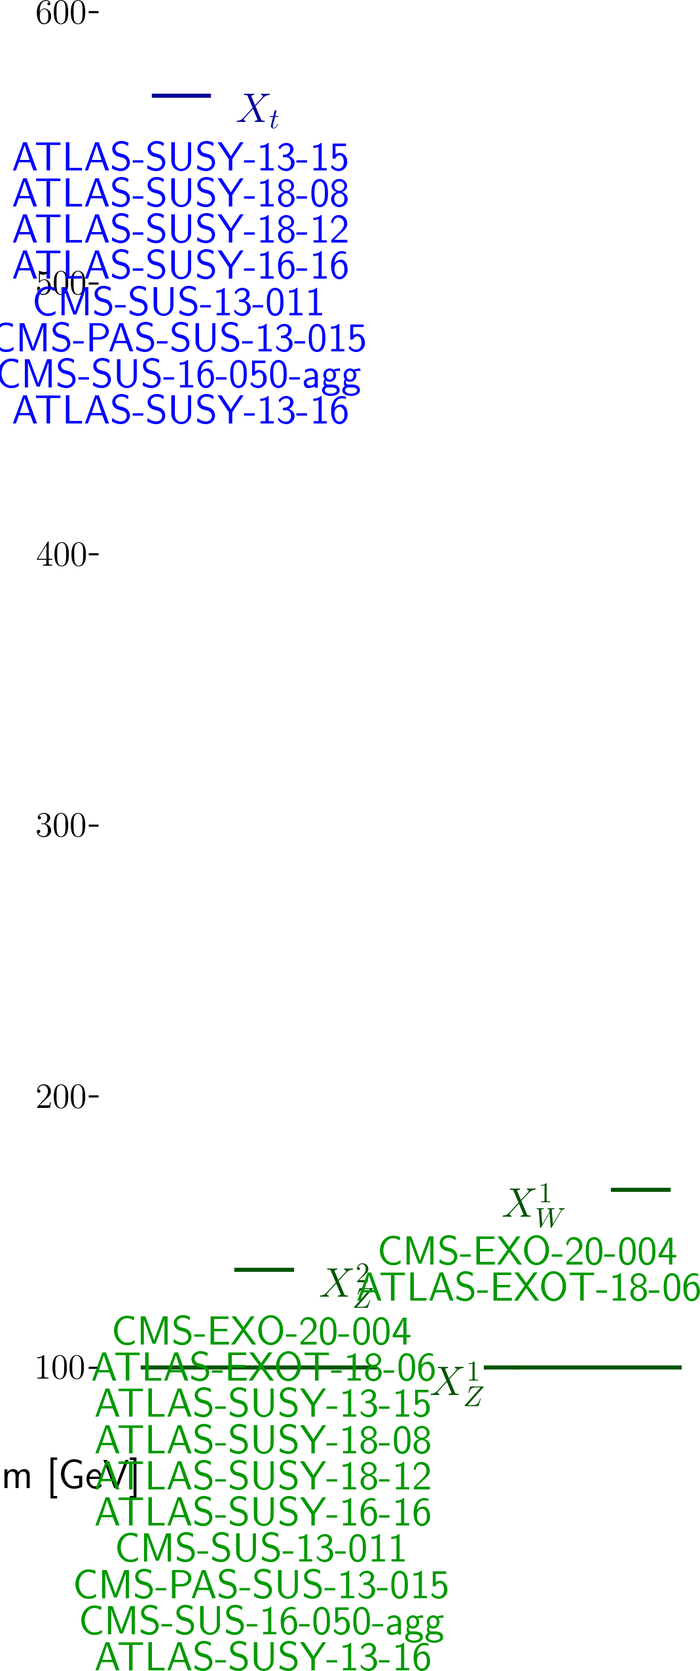
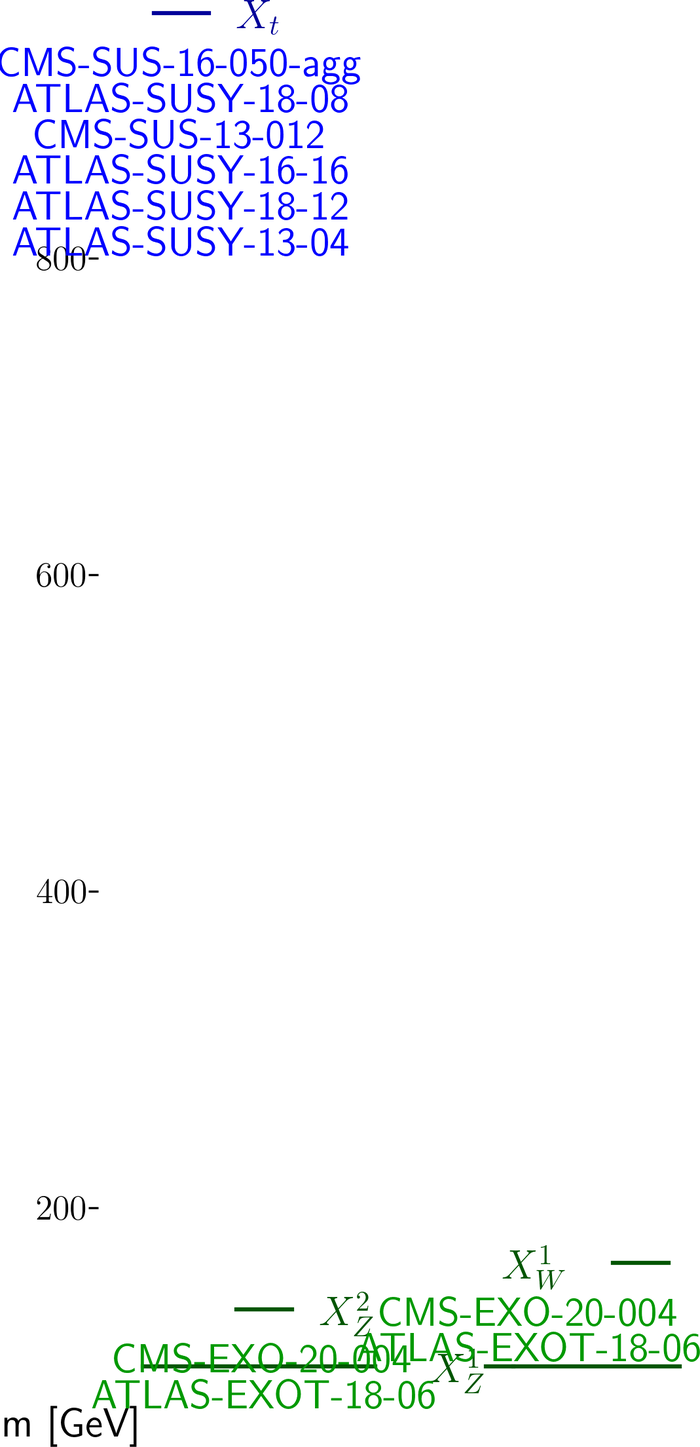
automated update by plotHiscore.py to mcmc4_310:     K=24.436 TL=29.49 walkerid=0

diff --git a/protomodels/mcmc4_310/rawnumbers.html b/protomodels/mcmc4_310/rawnumbers.html
@@ -2,79 +2,26 @@
 <tr><th>Analysis Name</th><th>Type</th><th>Dataset</th><th>Topos</th><th>Observed</th><th>Expected</th><th>Approx &sigma;</th><th>Particles</th>
 </tr>
 <tr><td><a href=http://cms-results.web.cern.ch/cms-results/public-results/publications/EXO-20-004/>CMS-EXO-20-004</a></td><td>comb</td> <td>-</td><td>TChiISR, TChiZISRqq</td><td> 2e+02 fb </td><td> 1e+02 fb</td><td style="text-align:right">4.5 &sigma;</td><td style="text-align:right">X<sup>1</sup><sub>W</sub>, X<sup>1</sup><sub>Z</sub>, X<sup>2</sup><sub>Z</sub></td></tr>
-<tr><td><a href=https://atlas.web.cern.ch/Atlas/GROUPS/PHYSICS/PAPERS/EXOT-2018-06/>ATLAS-EXOT-2018-06</a></td><td>em</td> <td>EM10</td><td>TChiISR, TChiZISRqq</td><td>413</td><td>359.00 +/- 10.00</td><td style="text-align:right">2.5 &sigma;</td><td style="text-align:right">X<sup>1</sup><sub>W</sub>, X<sup>1</sup><sub>Z</sub>, X<sup>2</sup><sub>Z</sub></td></tr>
-<tr><td><a href=https://atlas.web.cern.ch/Atlas/GROUPS/PHYSICS/PAPERS/SUSY-2018-12/>ATLAS-SUSY-2018-12</a></td><td>em</td> <td>SRBTT</td><td>T2tt</td><td>67</td><td>46.00 +/- 7.00</td><td style="text-align:right">2.0 &sigma;</td><td style="text-align:right">X<sub>t</sub>, X<sup>2</sup><sub>Z</sub></td></tr>
-<tr><td><a href=https://atlas.web.cern.ch/Atlas/GROUPS/PHYSICS/PAPERS/SUSY-2018-08/>ATLAS-SUSY-2018-08</a></td><td>em</td> <td>SRSF140</td><td>T2tt</td><td>9</td><td>5.10 +/- 0.90</td><td style="text-align:right">1.5 &sigma;</td><td style="text-align:right">X<sub>t</sub>, X<sup>2</sup><sub>Z</sub></td></tr>
-<tr><td><a href=https://atlas.web.cern.ch/Atlas/GROUPS/PHYSICS/PAPERS/SUSY-2016-16/>ATLAS-SUSY-2016-16</a></td><td>em</td> <td>tN_med</td><td>T2tt</td><td>50</td><td>36.30 +/- 6.60</td><td style="text-align:right">1.5 &sigma;</td><td style="text-align:right">X<sub>t</sub>, X<sup>2</sup><sub>Z</sub></td></tr>
-<tr><td><a href=https://atlas.web.cern.ch/Atlas/GROUPS/PHYSICS/PAPERS/SUSY-2013-16/>ATLAS-SUSY-2013-16</a></td><td>em</td> <td>SRA4</td><td>T2tt</td><td>4</td><td>2.40 +/- 0.70</td><td style="text-align:right">0.9 &sigma;</td><td style="text-align:right">X<sub>t</sub>, X<sup>2</sup><sub>Z</sub></td></tr>
-<tr><td><a href=https://atlas.web.cern.ch/Atlas/GROUPS/PHYSICS/PAPERS/SUSY-2013-15/>ATLAS-SUSY-2013-15</a></td><td>em</td> <td>tNboost</td><td>T2tt</td><td>5</td><td>3.30 +/- 0.70</td><td style="text-align:right">0.9 &sigma;</td><td style="text-align:right">X<sub>t</sub>, X<sup>2</sup><sub>Z</sub></td></tr>
-<tr><td><a href=https://twiki.cern.ch/twiki/bin/view/CMSPublic/PhysicsResultsSUS13015>CMS-PAS-SUS-13-015</a></td><td>em</td> <td>pTmiss350_Nb2</td><td>T2tt</td><td>15</td><td>8.60 +/- 7.10</td><td style="text-align:right">0.8 &sigma;</td><td style="text-align:right">X<sub>t</sub>, X<sup>2</sup><sub>Z</sub></td></tr>
-<tr><td><a href=http://cms-results.web.cern.ch/cms-results/public-results/publications/SUS-16-050/index.html>CMS-SUS-16-050-agg</a></td><td>comb</td> <td>-</td><td>T2tt</td><td> 1 fb </td><td> 1 fb</td><td style="text-align:right">0.6 &sigma;</td><td style="text-align:right">X<sub>t</sub>, X<sup>2</sup><sub>Z</sub></td></tr>
-<tr><td><a href=https://twiki.cern.ch/twiki/bin/view/CMSPublic/PhysicsResultsSUS13011>CMS-SUS-13-011</a></td><td>em</td> <td>LM150</td><td>T2tt</td><td>227</td><td>251.00 +/- 50.00</td><td style="text-align:right">-0.4 &sigma;</td><td style="text-align:right">X<sub>t</sub>, X<sup>2</sup><sub>Z</sub></td></tr>
+<tr><td><a href=https://atlas.web.cern.ch/Atlas/GROUPS/PHYSICS/PAPERS/EXOT-2018-06/>ATLAS-EXOT-2018-06</a></td><td>em</td> <td>EM10</td><td>TChiISR, TChiZISRqq</td><td>413</td><td>359.00 +/- 10.00</td><td style="text-align:right">2.4 &sigma;</td><td style="text-align:right">X<sup>1</sup><sub>W</sub>, X<sup>1</sup><sub>Z</sub>, X<sup>2</sup><sub>Z</sub></td></tr>
+<tr><td><a href=https://atlas.web.cern.ch/Atlas/GROUPS/PHYSICS/PAPERS/SUSY-2018-12/>ATLAS-SUSY-2018-12</a></td><td>em</td> <td>SRBTT</td><td>T2tt</td><td>67</td><td>46.00 +/- 7.00</td><td style="text-align:right">2.0 &sigma;</td><td style="text-align:right">X<sup>1</sup><sub>Z</sub>, X<sub>t</sub></td></tr>
+<tr><td><a href=https://atlas.web.cern.ch/Atlas/GROUPS/PHYSICS/PAPERS/SUSY-2016-16/>ATLAS-SUSY-2016-16</a></td><td>em</td> <td>tN_high</td><td>T2tt</td><td>8</td><td>3.80 +/- 1.00</td><td style="text-align:right">1.7 &sigma;</td><td style="text-align:right">X<sup>1</sup><sub>Z</sub>, X<sub>t</sub></td></tr>
+<tr><td><a href=https://atlas.web.cern.ch/Atlas/GROUPS/PHYSICS/PAPERS/SUSY-2018-08/>ATLAS-SUSY-2018-08</a></td><td>em</td> <td>SRSF140</td><td>T2tt</td><td>9</td><td>5.10 +/- 0.90</td><td style="text-align:right">1.5 &sigma;</td><td style="text-align:right">X<sup>1</sup><sub>Z</sub>, X<sub>t</sub></td></tr>
+<tr><td><a href=https://twiki.cern.ch/twiki/bin/view/CMSPublic/PhysicsResultsSUS13012>CMS-SUS-13-012</a></td><td>em</td> <td>3NJet6_1000HT12 ...</td><td>T2tt</td><td>32</td><td>22.80 +/- 5.20</td><td style="text-align:right">1.3 &sigma;</td><td style="text-align:right">X<sup>1</sup><sub>Z</sub>, X<sub>t</sub></td></tr>
+<tr><td><a href=https://atlas.web.cern.ch/Atlas/GROUPS/PHYSICS/PAPERS/SUSY-2013-04/>ATLAS-SUSY-2013-04</a></td><td>em</td> <td>GtGrid_SR_10ij5 ...</td><td>T2tt</td><td>3</td><td>1.37 +/- 0.35</td><td style="text-align:right">1.2 &sigma;</td><td style="text-align:right">X<sup>1</sup><sub>Z</sub>, X<sub>t</sub></td></tr>
+<tr><td><a href=http://cms-results.web.cern.ch/cms-results/public-results/publications/SUS-16-050/index.html>CMS-SUS-16-050-agg</a></td><td>comb</td> <td>-</td><td>T2tt</td><td> 0.4 fb </td><td> 0.7 fb</td><td style="text-align:right">-0.3 &sigma;</td><td style="text-align:right">X<sup>1</sup><sub>Z</sub>, X<sub>t</sub></td></tr>
 </table>
 <table style='color:grey'>
-<tr><th>Not in Best Combo</th><th>Type</th><th>Dataset</th><th>Topos</th><th>Observed</th><th>Expected</th><th>Approx &sigma;</th><th>Particles</th><tr><td><a href=https://atlas.web.cern.ch/Atlas/GROUPS/PHYSICS/PAPERS/SUSY-2015-02/>ATLAS-SUSY-2015-02</a></td><td>em</td> <td>SR1</td><td>T2tt</td><td>12</td><td>5.50 +/- 0.72</td><td style="text-align:right">2.3 &sigma;</td><td style="text-align:right">X<sub>t</sub>, X<sup>2</sup><sub>Z</sub></td></tr>
-<tr><td><a href=https://twiki.cern.ch/twiki/bin/view/CMSPublic/PhysicsResultsSUS13012>CMS-SUS-13-012</a></td><td>em</td> <td>6NJet8_500HT800 ...</td><td>T2tt, T6bbWWoff</td><td>9</td><td>0.80 +/- 3.30</td><td style="text-align:right">1.8 &sigma;</td><td style="text-align:right">X<sup>1</sup><sub>W</sub>, X<sup>1</sup><sub>Z</sub>, X<sub>t</sub>, X<sup>2</sup><sub>Z</sub></td></tr>
-<tr><td><a href=https://twiki.cern.ch/twiki/bin/view/CMSPublic/PhysicsResultsSUS13012>CMS-SUS-13-012</a></td><td>em</td> <td>3NJet6_1000HT12 ...</td><td>T2tt, T6bbWWoff</td><td>32</td><td>22.80 +/- 5.20</td><td style="text-align:right">1.3 &sigma;</td><td style="text-align:right">X<sup>1</sup><sub>W</sub>, X<sup>1</sup><sub>Z</sub>, X<sub>t</sub>, X<sup>2</sup><sub>Z</sub></td></tr>
-<tr><td><a href=https://atlas.web.cern.ch/Atlas/GROUPS/PHYSICS/PAPERS/SUSY-2013-04/>ATLAS-SUSY-2013-04</a></td><td>em</td> <td>GtGrid_SR_10ij5 ...</td><td>T2tt</td><td>3</td><td>1.37 +/- 0.35</td><td style="text-align:right">1.2 &sigma;</td><td style="text-align:right">X<sub>t</sub>, X<sup>2</sup><sub>Z</sub></td></tr>
-<tr><td><a href=http://cms-results.web.cern.ch/cms-results/public-results/publications/SUS-16-033/index.html>CMS-SUS-16-033</a></td><td>em</td> <td>SR2_Njet3_Nb0_H ...</td><td>T2tt</td><td>71</td><td>55.20 +/- 11.50</td><td style="text-align:right">1.1 &sigma;</td><td style="text-align:right">X<sub>t</sub>, X<sup>2</sup><sub>Z</sub></td></tr>
-<tr><td><a href=https://twiki.cern.ch/twiki/bin/view/CMSPublic/PhysicsResultsSUS13012>CMS-SUS-13-012</a></td><td>em</td> <td>3NJet6_1500HTin ...</td><td>T2tt, T6bbWWoff</td><td>39</td><td>29.70 +/- 5.80</td><td style="text-align:right">1.2 &sigma;</td><td style="text-align:right">X<sup>1</sup><sub>W</sub>, X<sup>1</sup><sub>Z</sub>, X<sub>t</sub>, X<sup>2</sup><sub>Z</sub></td></tr>
-<tr><td><a href=https://twiki.cern.ch/twiki/bin/view/CMSPublic/PhysicsResultsSUS13012>CMS-SUS-13-012</a></td><td>em</td> <td>8NJetinf_500HT8 ...</td><td>T2tt, T6bbWWoff</td><td>8</td><td>4.80 +/- 2.30</td><td style="text-align:right">1.0 &sigma;</td><td style="text-align:right">X<sup>1</sup><sub>W</sub>, X<sup>1</sup><sub>Z</sub>, X<sub>t</sub>, X<sup>2</sup><sub>Z</sub></td></tr>
-<tr><td><a href=https://twiki.cern.ch/twiki/bin/view/CMSPublic/PhysicsResultsSUS13012>CMS-SUS-13-012</a></td><td>em</td> <td>3NJet6_1250HT15 ...</td><td>T2tt, T6bbWWoff</td><td>23</td><td>17.60 +/- 4.10</td><td style="text-align:right">0.9 &sigma;</td><td style="text-align:right">X<sup>1</sup><sub>W</sub>, X<sup>1</sup><sub>Z</sub>, X<sub>t</sub>, X<sup>2</sup><sub>Z</sub></td></tr>
-<tr><td><a href=https://atlas.web.cern.ch/Atlas/GROUPS/PHYSICS/PAPERS/SUSY-2013-04/>ATLAS-SUSY-2013-04</a></td><td>em</td> <td>GtGrid_SR_8ij80 ...</td><td>T2tt</td><td>2</td><td>0.90 +/- 0.60</td><td style="text-align:right">0.9 &sigma;</td><td style="text-align:right">X<sub>t</sub>, X<sup>2</sup><sub>Z</sub></td></tr>
-<tr><td><a href=https://atlas.web.cern.ch/Atlas/GROUPS/PHYSICS/PAPERS/SUSY-2013-04/>ATLAS-SUSY-2013-04</a></td><td>em</td> <td>GtGrid_SR_9ej50 ...</td><td>T2tt</td><td>5</td><td>3.30 +/- 0.70</td><td style="text-align:right">0.9 &sigma;</td><td style="text-align:right">X<sub>t</sub>, X<sup>2</sup><sub>Z</sub></td></tr>
-<tr><td><a href=https://twiki.cern.ch/twiki/bin/view/CMSPublic/PhysicsResultsSUS13012>CMS-SUS-13-012</a></td><td>em</td> <td>3NJet6_800HT100 ...</td><td>T2tt, T6bbWWoff</td><td>124</td><td>108.00 +/- 15.00</td><td style="text-align:right">0.9 &sigma;</td><td style="text-align:right">X<sup>1</sup><sub>W</sub>, X<sup>1</sup><sub>Z</sub>, X<sub>t</sub>, X<sup>2</sup><sub>Z</sub></td></tr>
-<tr><td><a href=https://twiki.cern.ch/twiki/bin/view/CMSPublic/PhysicsResultsSUS13012>CMS-SUS-13-012</a></td><td>em</td> <td>8NJetinf_1000HT ...</td><td>T2tt, T6bbWWoff</td><td>8</td><td>5.60 +/- 2.30</td><td style="text-align:right">0.8 &sigma;</td><td style="text-align:right">X<sup>1</sup><sub>W</sub>, X<sup>1</sup><sub>Z</sub>, X<sub>t</sub>, X<sup>2</sup><sub>Z</sub></td></tr>
-<tr><td><a href=https://twiki.cern.ch/twiki/bin/view/CMSPublic/PhysicsResultsSUS13012>CMS-SUS-13-012</a></td><td>em</td> <td>6NJet8_800HT100 ...</td><td>T2tt, T6bbWWoff</td><td>35</td><td>28.60 +/- 6.90</td><td style="text-align:right">0.8 &sigma;</td><td style="text-align:right">X<sup>1</sup><sub>W</sub>, X<sup>1</sup><sub>Z</sub>, X<sub>t</sub>, X<sup>2</sup><sub>Z</sub></td></tr>
-<tr><td><a href=https://twiki.cern.ch/twiki/bin/view/CMSPublic/PhysicsResultsSUS13012>CMS-SUS-13-012</a></td><td>em</td> <td>6NJet8_500HT800 ...</td><td>T2tt, T6bbWWoff</td><td>62</td><td>52.00 +/- 12.00</td><td style="text-align:right">0.7 &sigma;</td><td style="text-align:right">X<sup>1</sup><sub>W</sub>, X<sup>1</sup><sub>Z</sub>, X<sub>t</sub>, X<sup>2</sup><sub>Z</sub></td></tr>
-<tr><td><a href=https://atlas.web.cern.ch/Atlas/GROUPS/PHYSICS/PAPERS/SUSY-2013-04/>ATLAS-SUSY-2013-04</a></td><td>em</td> <td>GtGrid_SR_8ej50 ...</td><td>T2tt</td><td>40</td><td>35.00 +/- 4.00</td><td style="text-align:right">0.7 &sigma;</td><td style="text-align:right">X<sub>t</sub>, X<sup>2</sup><sub>Z</sub></td></tr>
-<tr><td><a href=https://twiki.cern.ch/twiki/bin/view/CMSPublic/PhysicsResultsSUS13012>CMS-SUS-13-012</a></td><td>em</td> <td>3NJet6_1000HT12 ...</td><td>T2tt, T6bbWWoff</td><td>335</td><td>305.00 +/- 41.00</td><td style="text-align:right">0.7 &sigma;</td><td style="text-align:right">X<sup>1</sup><sub>W</sub>, X<sup>1</sup><sub>Z</sub>, X<sub>t</sub>, X<sup>2</sup><sub>Z</sub></td></tr>
-<tr><td><a href=https://atlas.web.cern.ch/Atlas/GROUPS/PHYSICS/PAPERS/SUSY-2013-04/>ATLAS-SUSY-2013-04</a></td><td>em</td> <td>GtGrid_SR_9ej50 ...</td><td>T2tt</td><td>8</td><td>6.10 +/- 1.70</td><td style="text-align:right">0.7 &sigma;</td><td style="text-align:right">X<sub>t</sub>, X<sup>2</sup><sub>Z</sub></td></tr>
-<tr><td><a href=http://cms-results.web.cern.ch/cms-results/public-results/publications/SUS-16-033/index.html>CMS-SUS-16-033</a></td><td>em</td> <td>SR6_Njet2_Nb2_H ...</td><td>T2tt</td><td>216</td><td>196.00 +/- 28.00</td><td style="text-align:right">0.6 &sigma;</td><td style="text-align:right">X<sub>t</sub>, X<sup>2</sup><sub>Z</sub></td></tr>
-<tr><td><a href=http://cms-results.web.cern.ch/cms-results/public-results/publications/SUS-16-033/index.html>CMS-SUS-16-033</a></td><td>em</td> <td>SR1_Njet2_Nb0_H ...</td><td>T2tt</td><td>7838</td><td>7584.00 +/- 433.00</td><td style="text-align:right">0.6 &sigma;</td><td style="text-align:right">X<sub>t</sub>, X<sup>2</sup><sub>Z</sub></td></tr>
-<tr><td><a href=https://twiki.cern.ch/twiki/bin/view/CMSPublic/PhysicsResultsSUS13012>CMS-SUS-13-012</a></td><td>em</td> <td>3NJet6_500HT800 ...</td><td>T2tt, T6bbWWoff</td><td>454</td><td>418.00 +/- 66.00</td><td style="text-align:right">0.5 &sigma;</td><td style="text-align:right">X<sup>1</sup><sub>W</sub>, X<sup>1</sup><sub>Z</sub>, X<sub>t</sub>, X<sup>2</sup><sub>Z</sub></td></tr>
-<tr><td><a href=http://cms-results.web.cern.ch/cms-results/public-results/publications/SUS-16-033/index.html>CMS-SUS-16-033</a></td><td>em</td> <td>SR12_Njet5_Nb1_ ...</td><td>T2tt</td><td>48</td><td>42.20 +/- 9.70</td><td style="text-align:right">0.5 &sigma;</td><td style="text-align:right">X<sub>t</sub>, X<sup>2</sup><sub>Z</sub></td></tr>
-<tr><td><a href=http://cms-results.web.cern.ch/cms-results/public-results/publications/SUS-16-033/index.html>CMS-SUS-16-033</a></td><td>em</td> <td>SR7_Njet3_Nb1_H ...</td><td>T2tt</td><td>123</td><td>113.00 +/- 18.00</td><td style="text-align:right">0.5 &sigma;</td><td style="text-align:right">X<sub>t</sub>, X<sup>2</sup><sub>Z</sub></td></tr>
-<tr><td><a href=https://twiki.cern.ch/twiki/bin/view/CMSPublic/PhysicsResultsSUS13012>CMS-SUS-13-012</a></td><td>em</td> <td>3NJet6_1500HTin ...</td><td>T2tt, T6bbWWoff</td><td>94</td><td>86.00 +/- 17.00</td><td style="text-align:right">0.4 &sigma;</td><td style="text-align:right">X<sup>1</sup><sub>W</sub>, X<sup>1</sup><sub>Z</sub>, X<sub>t</sub>, X<sup>2</sup><sub>Z</sub></td></tr>
-<tr><td><a href=http://cms-results.web.cern.ch/cms-results/public-results/publications/SUS-16-033/index.html>CMS-SUS-16-033</a></td><td>em</td> <td>SR9_NJet5_Nb2_H ...</td><td>T2tt</td><td>6</td><td>4.40 +/- 3.40</td><td style="text-align:right">0.4 &sigma;</td><td style="text-align:right">X<sub>t</sub>, X<sup>2</sup><sub>Z</sub></td></tr>
-<tr><td><a href=https://atlas.web.cern.ch/Atlas/GROUPS/PHYSICS/PAPERS/SUSY-2013-04/>ATLAS-SUSY-2013-04</a></td><td>em</td> <td>GtGrid_SR_8ej50 ...</td><td>T2tt</td><td>44</td><td>40.00 +/- 10.00</td><td style="text-align:right">0.4 &sigma;</td><td style="text-align:right">X<sub>t</sub>, X<sup>2</sup><sub>Z</sub></td></tr>
-<tr><td><a href=https://twiki.cern.ch/twiki/bin/view/CMSPublic/PhysicsResultsSUS13012>CMS-SUS-13-012</a></td><td>em</td> <td>3NJet6_500HT800 ...</td><td>T2tt, T6bbWWoff</td><td>62</td><td>57.40 +/- 11.20</td><td style="text-align:right">0.4 &sigma;</td><td style="text-align:right">X<sup>1</sup><sub>W</sub>, X<sup>1</sup><sub>Z</sub>, X<sub>t</sub>, X<sup>2</sup><sub>Z</sub></td></tr>
-<tr><td><a href=https://atlas.web.cern.ch/Atlas/GROUPS/PHYSICS/PAPERS/SUSY-2013-04/>ATLAS-SUSY-2013-04</a></td><td>em</td> <td>GtGrid_SR_7ej80 ...</td><td>T2tt</td><td>12</td><td>11.00 +/- 2.20</td><td style="text-align:right">0.3 &sigma;</td><td style="text-align:right">X<sub>t</sub>, X<sup>2</sup><sub>Z</sub></td></tr>
-<tr><td><a href=http://cms-results.web.cern.ch/cms-results/public-results/publications/SUS-16-033/index.html>CMS-SUS-16-033</a></td><td>em</td> <td>SR4_Njet5_Nb0_H ...</td><td>T2tt</td><td>25</td><td>23.00 +/- 6.50</td><td style="text-align:right">0.3 &sigma;</td><td style="text-align:right">X<sub>t</sub>, X<sup>2</sup><sub>Z</sub></td></tr>
-<tr><td><a href=https://twiki.cern.ch/twiki/bin/view/CMSPublic/PhysicsResultsSUS13012>CMS-SUS-13-012</a></td><td>em</td> <td>3NJet6_800HT100 ...</td><td>T2tt, T6bbWWoff</td><td>808</td><td>777.00 +/- 107.00</td><td style="text-align:right">0.3 &sigma;</td><td style="text-align:right">X<sup>1</sup><sub>W</sub>, X<sup>1</sup><sub>Z</sub>, X<sub>t</sub>, X<sup>2</sup><sub>Z</sub></td></tr>
-<tr><td><a href=https://twiki.cern.ch/twiki/bin/view/CMSPublic/PhysicsResultsSUS13012>CMS-SUS-13-012</a></td><td>em</td> <td>3NJet6_1000HT12 ...</td><td>T2tt, T6bbWWoff</td><td>34</td><td>32.30 +/- 6.10</td><td style="text-align:right">0.2 &sigma;</td><td style="text-align:right">X<sup>1</sup><sub>W</sub>, X<sup>1</sup><sub>Z</sub>, X<sub>t</sub>, X<sup>2</sup><sub>Z</sub></td></tr>
-<tr><td><a href=https://twiki.cern.ch/twiki/bin/view/CMSPublic/PhysicsResultsSUS13012>CMS-SUS-13-012</a></td><td>em</td> <td>8NJetinf_800HT1 ...</td><td>T2tt, T6bbWWoff</td><td>9</td><td>8.30 +/- 3.40</td><td style="text-align:right">0.2 &sigma;</td><td style="text-align:right">X<sup>1</sup><sub>W</sub>, X<sup>1</sup><sub>Z</sub>, X<sub>t</sub>, X<sup>2</sup><sub>Z</sub></td></tr>
-<tr><td><a href=http://cms-results.web.cern.ch/cms-results/public-results/publications/SUS-16-033/index.html>CMS-SUS-16-033</a></td><td>em</td> <td>SR3_Njet5_Nb0_H ...</td><td>T2tt</td><td>819</td><td>806.00 +/- 57.00</td><td style="text-align:right">0.2 &sigma;</td><td style="text-align:right">X<sub>t</sub>, X<sup>2</sup><sub>Z</sub></td></tr>
-<tr><td><a href=https://twiki.cern.ch/twiki/bin/view/CMSPublic/PhysicsResultsSUS13012>CMS-SUS-13-012</a></td><td>em</td> <td>6NJet8_1000HT12 ...</td><td>T2tt, T6bbWWoff</td><td>4</td><td>2.20 +/- 3.80</td><td style="text-align:right">0.2 &sigma;</td><td style="text-align:right">X<sup>1</sup><sub>W</sub>, X<sup>1</sup><sub>Z</sub>, X<sub>t</sub>, X<sup>2</sup><sub>Z</sub></td></tr>
-<tr><td><a href=https://twiki.cern.ch/twiki/bin/view/CMSPublic/PhysicsResultsSUS13012>CMS-SUS-13-012</a></td><td>em</td> <td>6NJet8_1250HT15 ...</td><td>T2tt, T6bbWWoff</td><td>2</td><td>0.50 +/- 2.60</td><td style="text-align:right">0.1 &sigma;</td><td style="text-align:right">X<sup>1</sup><sub>W</sub>, X<sup>1</sup><sub>Z</sub>, X<sub>t</sub>, X<sup>2</sup><sub>Z</sub></td></tr>
-<tr><td><a href=https://atlas.web.cern.ch/Atlas/GROUPS/PHYSICS/PAPERS/SUSY-2015-02/>ATLAS-SUSY-2015-02</a></td><td>em</td> <td>SR3</td><td>T2tt</td><td>1</td><td>1.03 +/- 0.18</td><td style="text-align:right">0.1 &sigma;</td><td style="text-align:right">X<sub>t</sub>, X<sup>2</sup><sub>Z</sub></td></tr>
-<tr><td><a href=https://twiki.cern.ch/twiki/bin/view/CMSPublic/PhysicsResultsSUS13012>CMS-SUS-13-012</a></td><td>em</td> <td>3NJet6_500HT800 ...</td><td>T2tt, T6bbWWoff</td><td>6159</td><td>6088.00 +/- 665.00</td><td style="text-align:right">0.1 &sigma;</td><td style="text-align:right">X<sup>1</sup><sub>W</sub>, X<sup>1</sup><sub>Z</sub>, X<sub>t</sub>, X<sup>2</sup><sub>Z</sub></td></tr>
-<tr><td><a href=https://twiki.cern.ch/twiki/bin/view/CMSPublic/PhysicsResultsSUS13012>CMS-SUS-13-012</a></td><td>em</td> <td>3NJet6_500HT800 ...</td><td>T2tt, T6bbWWoff</td><td>2305</td><td>2278.00 +/- 266.00</td><td style="text-align:right">0.1 &sigma;</td><td style="text-align:right">X<sup>1</sup><sub>W</sub>, X<sup>1</sup><sub>Z</sub>, X<sub>t</sub>, X<sup>2</sup><sub>Z</sub></td></tr>
-<tr><td><a href=http://cms-results.web.cern.ch/cms-results/public-results/publications/SUS-16-033/index.html>CMS-SUS-16-033</a></td><td>em</td> <td>SR5_Njet9_Nb0_H ...</td><td>T2tt</td><td>1</td><td>0.60 +/- 1.30</td><td style="text-align:right">0.0 &sigma;</td><td style="text-align:right">X<sub>t</sub>, X<sup>2</sup><sub>Z</sub></td></tr>
-<tr><td><a href=https://atlas.web.cern.ch/Atlas/GROUPS/PHYSICS/PAPERS/SUSY-2013-04/>ATLAS-SUSY-2013-04</a></td><td>em</td> <td>GtGrid_SR_7ej80 ...</td><td>T2tt</td><td>17</td><td>17.00 +/- 6.00</td><td style="text-align:right">0.1 &sigma;</td><td style="text-align:right">X<sub>t</sub>, X<sup>2</sup><sub>Z</sub></td></tr>
-<tr><td><a href=https://atlas.web.cern.ch/Atlas/GROUPS/PHYSICS/PAPERS/SUSY-2013-04/>ATLAS-SUSY-2013-04</a></td><td>em</td> <td>GtGrid_SR_8ij80 ...</td><td>T2tt</td><td>3</td><td>3.30 +/- 2.20</td><td style="text-align:right">-0.1 &sigma;</td><td style="text-align:right">X<sub>t</sub>, X<sup>2</sup><sub>Z</sub></td></tr>
-<tr><td><a href=https://atlas.web.cern.ch/Atlas/GROUPS/PHYSICS/PAPERS/SUSY-2015-02/>ATLAS-SUSY-2015-02</a></td><td>em</td> <td>SR2</td><td>T2tt</td><td>1</td><td>1.25 +/- 0.26</td><td style="text-align:right">-0.1 &sigma;</td><td style="text-align:right">X<sub>t</sub>, X<sup>2</sup><sub>Z</sub></td></tr>
-<tr><td><a href=https://twiki.cern.ch/twiki/bin/view/CMSPublic/PhysicsResultsSUS13012>CMS-SUS-13-012</a></td><td>em</td> <td>6NJet8_1000HT12 ...</td><td>T2tt, T6bbWWoff</td><td>67</td><td>70.00 +/- 16.00</td><td style="text-align:right">-0.2 &sigma;</td><td style="text-align:right">X<sup>1</sup><sub>W</sub>, X<sup>1</sup><sub>Z</sub>, X<sub>t</sub>, X<sup>2</sup><sub>Z</sub></td></tr>
-<tr><td><a href=https://atlas.web.cern.ch/Atlas/GROUPS/PHYSICS/PAPERS/SUSY-2013-04/>ATLAS-SUSY-2013-04</a></td><td>em</td> <td>GtGrid_SR_9ej50 ...</td><td>T2tt</td><td>7</td><td>8.00 +/- 2.70</td><td style="text-align:right">-0.2 &sigma;</td><td style="text-align:right">X<sub>t</sub>, X<sup>2</sup><sub>Z</sub></td></tr>
-<tr><td><a href=https://twiki.cern.ch/twiki/bin/view/CMSPublic/PhysicsResultsSUS13012>CMS-SUS-13-012</a></td><td>em</td> <td>6NJet8_1000HT12 ...</td><td>T2tt, T6bbWWoff</td><td>20</td><td>21.60 +/- 5.80</td><td style="text-align:right">-0.2 &sigma;</td><td style="text-align:right">X<sup>1</sup><sub>W</sub>, X<sup>1</sup><sub>Z</sub>, X<sub>t</sub>, X<sup>2</sup><sub>Z</sub></td></tr>
-<tr><td><a href=https://twiki.cern.ch/twiki/bin/view/CMSPublic/PhysicsResultsSUS13012>CMS-SUS-13-012</a></td><td>em</td> <td>3NJet6_800HT100 ...</td><td>T2tt, T6bbWWoff</td><td>52</td><td>54.80 +/- 9.70</td><td style="text-align:right">-0.2 &sigma;</td><td style="text-align:right">X<sup>1</sup><sub>W</sub>, X<sup>1</sup><sub>Z</sub>, X<sub>t</sub>, X<sup>2</sup><sub>Z</sub></td></tr>
-<tr><td><a href=https://atlas.web.cern.ch/Atlas/GROUPS/PHYSICS/PAPERS/SUSY-2013-04/>ATLAS-SUSY-2013-04</a></td><td>em</td> <td>GtGrid_SR_8ij80 ...</td><td>T2tt</td><td>1</td><td>1.50 +/- 0.90</td><td style="text-align:right">-0.2 &sigma;</td><td style="text-align:right">X<sub>t</sub>, X<sup>2</sup><sub>Z</sub></td></tr>
-<tr><td><a href=http://cms-results.web.cern.ch/cms-results/public-results/publications/SUS-16-033/index.html>CMS-SUS-16-033</a></td><td>em</td> <td>SR8_Njet5_Nb3_H ...</td><td>T2tt</td><td>17</td><td>19.50 +/- 8.40</td><td style="text-align:right">-0.2 &sigma;</td><td style="text-align:right">X<sub>t</sub>, X<sup>2</sup><sub>Z</sub></td></tr>
-<tr><td><a href=http://cms-results.web.cern.ch/cms-results/public-results/publications/SUS-19-006/index.html>CMS-SUS-19-006-agg</a></td><td>comb</td> <td>-</td><td>T2tt</td><td> 2 fb </td><td> 2 fb</td><td style="text-align:right">-0.3 &sigma;</td><td style="text-align:right">X<sub>t</sub>, X<sup>2</sup><sub>Z</sub></td></tr>
-<tr><td><a href=https://twiki.cern.ch/twiki/bin/view/CMSPublic/PhysicsResultsSUS13012>CMS-SUS-13-012</a></td><td>em</td> <td>6NJet8_1500HTin ...</td><td>T2tt, T6bbWWoff</td><td>18</td><td>21.10 +/- 8.10</td><td style="text-align:right">-0.3 &sigma;</td><td style="text-align:right">X<sup>1</sup><sub>W</sub>, X<sup>1</sup><sub>Z</sub>, X<sub>t</sub>, X<sup>2</sup><sub>Z</sub></td></tr>
-<tr><td><a href=https://twiki.cern.ch/twiki/bin/view/CMSPublic/PhysicsResultsSUS13012>CMS-SUS-13-012</a></td><td>em</td> <td>3NJet6_1000HT12 ...</td><td>T2tt, T6bbWWoff</td><td>129</td><td>137.00 +/- 20.00</td><td style="text-align:right">-0.3 &sigma;</td><td style="text-align:right">X<sup>1</sup><sub>W</sub>, X<sup>1</sup><sub>Z</sub>, X<sub>t</sub>, X<sup>2</sup><sub>Z</sub></td></tr>
-<tr><td><a href=https://twiki.cern.ch/twiki/bin/view/CMSPublic/PhysicsResultsSUS13012>CMS-SUS-13-012</a></td><td>em</td> <td>6NJet8_500HT800 ...</td><td>T2tt, T6bbWWoff</td><td>266</td><td>290.00 +/- 65.00</td><td style="text-align:right">-0.4 &sigma;</td><td style="text-align:right">X<sup>1</sup><sub>W</sub>, X<sup>1</sup><sub>Z</sub>, X<sub>t</sub>, X<sup>2</sup><sub>Z</sub></td></tr>
-<tr><td><a href=https://twiki.cern.ch/twiki/bin/view/CMSPublic/PhysicsResultsSUS13012>CMS-SUS-13-012</a></td><td>em</td> <td>6NJet8_1250HT15 ...</td><td>T2tt, T6bbWWoff</td><td>24</td><td>28.00 +/- 8.20</td><td style="text-align:right">-0.4 &sigma;</td><td style="text-align:right">X<sup>1</sup><sub>W</sub>, X<sup>1</sup><sub>Z</sub>, X<sub>t</sub>, X<sup>2</sup><sub>Z</sub></td></tr>
-<tr><td><a href=https://twiki.cern.ch/twiki/bin/view/CMSPublic/PhysicsResultsSUS13012>CMS-SUS-13-012</a></td><td>em</td> <td>3NJet6_1250HT15 ...</td><td>T2tt, T6bbWWoff</td><td>38</td><td>42.80 +/- 9.50</td><td style="text-align:right">-0.4 &sigma;</td><td style="text-align:right">X<sup>1</sup><sub>W</sub>, X<sup>1</sup><sub>Z</sub>, X<sub>t</sub>, X<sup>2</sup><sub>Z</sub></td></tr>
-<tr><td><a href=https://twiki.cern.ch/twiki/bin/view/CMSPublic/PhysicsResultsSUS13012>CMS-SUS-13-012</a></td><td>em</td> <td>6NJet8_800HT100 ...</td><td>T2tt, T6bbWWoff</td><td>111</td><td>124.00 +/- 29.00</td><td style="text-align:right">-0.4 &sigma;</td><td style="text-align:right">X<sup>1</sup><sub>W</sub>, X<sup>1</sup><sub>Z</sub>, X<sub>t</sub>, X<sup>2</sup><sub>Z</sub></td></tr>
-<tr><td><a href=https://twiki.cern.ch/twiki/bin/view/CMSPublic/PhysicsResultsSUS13012>CMS-SUS-13-012</a></td><td>em</td> <td>8NJetinf_1250HT ...</td><td>T2tt, T6bbWWoff</td><td>5</td><td>7.10 +/- 3.80</td><td style="text-align:right">-0.4 &sigma;</td><td style="text-align:right">X<sup>1</sup><sub>W</sub>, X<sup>1</sup><sub>Z</sub>, X<sub>t</sub>, X<sup>2</sup><sub>Z</sub></td></tr>
-<tr><td><a href=https://atlas.web.cern.ch/Atlas/GROUPS/PHYSICS/PAPERS/SUSY-2013-04/>ATLAS-SUSY-2013-04</a></td><td>em</td> <td>GtGrid_SR_8ej50 ...</td><td>T2tt</td><td>44</td><td>50.00 +/- 10.00</td><td style="text-align:right">-0.5 &sigma;</td><td style="text-align:right">X<sub>t</sub>, X<sup>2</sup><sub>Z</sub></td></tr>
-<tr><td><a href=https://twiki.cern.ch/twiki/bin/view/CMSPublic/PhysicsResultsSUS13012>CMS-SUS-13-012</a></td><td>em</td> <td>6NJet8_800HT100 ...</td><td>T2tt, T6bbWWoff</td><td>4</td><td>6.00 +/- 2.80</td><td style="text-align:right">-0.5 &sigma;</td><td style="text-align:right">X<sup>1</sup><sub>W</sub>, X<sup>1</sup><sub>Z</sub>, X<sub>t</sub>, X<sup>2</sup><sub>Z</sub></td></tr>
-<tr><td><a href=https://twiki.cern.ch/twiki/bin/view/CMSPublic/PhysicsResultsSUS13012>CMS-SUS-13-012</a></td><td>em</td> <td>3NJet6_1250HT15 ...</td><td>T2tt, T6bbWWoff</td><td>98</td><td>109.00 +/- 18.00</td><td style="text-align:right">-0.5 &sigma;</td><td style="text-align:right">X<sup>1</sup><sub>W</sub>, X<sup>1</sup><sub>Z</sub>, X<sub>t</sub>, X<sup>2</sup><sub>Z</sub></td></tr>
-<tr><td><a href=https://twiki.cern.ch/twiki/bin/view/CMSPublic/PhysicsResultsSUS13012>CMS-SUS-13-012</a></td><td>em</td> <td>3NJet6_800HT100 ...</td><td>T2tt, T6bbWWoff</td><td>305</td><td>330.00 +/- 40.00</td><td style="text-align:right">-0.6 &sigma;</td><td style="text-align:right">X<sup>1</sup><sub>W</sub>, X<sup>1</sup><sub>Z</sub>, X<sub>t</sub>, X<sup>2</sup><sub>Z</sub></td></tr>
-<tr><td><a href=https://twiki.cern.ch/twiki/bin/view/CMSPublic/PhysicsResultsSUS13012>CMS-SUS-13-012</a></td><td>em</td> <td>8NJetinf_1500HT ...</td><td>T2tt, T6bbWWoff</td><td>2</td><td>3.30 +/- 4.70</td><td style="text-align:right">-0.7 &sigma;</td><td style="text-align:right">X<sup>1</sup><sub>W</sub>, X<sup>1</sup><sub>Z</sub>, X<sub>t</sub>, X<sup>2</sup><sub>Z</sub></td></tr>
-<tr><td><a href=http://cms-results.web.cern.ch/cms-results/public-results/publications/SUS-16-033/index.html>CMS-SUS-16-033</a></td><td>em</td> <td>SR11_Njet7_Nb1_ ...</td><td>T2tt</td><td>890</td><td>969.00 +/- 80.00</td><td style="text-align:right">-0.9 &sigma;</td><td style="text-align:right">X<sub>t</sub>, X<sup>2</sup><sub>Z</sub></td></tr>
-<tr><td><a href=https://twiki.cern.ch/twiki/bin/view/CMSPublic/PhysicsResultsSUS13012>CMS-SUS-13-012</a></td><td>em</td> <td>6NJet8_1250HT15 ...</td><td>T2tt, T6bbWWoff</td><td>5</td><td>9.40 +/- 3.60</td><td style="text-align:right">-0.9 &sigma;</td><td style="text-align:right">X<sup>1</sup><sub>W</sub>, X<sup>1</sup><sub>Z</sub>, X<sub>t</sub>, X<sup>2</sup><sub>Z</sub></td></tr>
-<tr><td><a href=https://atlas.web.cern.ch/Atlas/GROUPS/PHYSICS/PAPERS/SUSY-2013-04/>ATLAS-SUSY-2013-04</a></td><td>em</td> <td>GtGrid_SR_7ej80 ...</td><td>T2tt</td><td>13</td><td>25.00 +/- 10.00</td><td style="text-align:right">-1.1 &sigma;</td><td style="text-align:right">X<sub>t</sub>, X<sup>2</sup><sub>Z</sub></td></tr>
-<tr><td><a href=https://twiki.cern.ch/twiki/bin/view/CMSPublic/PhysicsResultsSUS13012>CMS-SUS-13-012</a></td><td>em</td> <td>6NJet8_1500HTin ...</td><td>T2tt, T6bbWWoff</td><td>3</td><td>7.90 +/- 3.60</td><td style="text-align:right">-1.1 &sigma;</td><td style="text-align:right">X<sup>1</sup><sub>W</sub>, X<sup>1</sup><sub>Z</sub>, X<sub>t</sub>, X<sup>2</sup><sub>Z</sub></td></tr>
+<tr><th>Not in Best Combo</th><th>Type</th><th>Dataset</th><th>Topos</th><th>Observed</th><th>Expected</th><th>Approx &sigma;</th><th>Particles</th><tr><td><a href=http://cms-results.web.cern.ch/cms-results/public-results/publications/SUS-16-033/index.html>CMS-SUS-16-033</a></td><td>em</td> <td>SR2_Njet3_Nb0_H ...</td><td>T2tt</td><td>71</td><td>55.20 +/- 11.50</td><td style="text-align:right">1.1 &sigma;</td><td style="text-align:right">X<sup>1</sup><sub>Z</sub>, X<sub>t</sub></td></tr>
+<tr><td><a href=http://cms-results.web.cern.ch/cms-results/public-results/publications/SUS-16-033/index.html>CMS-SUS-16-033</a></td><td>em</td> <td>SR6_Njet2_Nb2_H ...</td><td>T2tt</td><td>216</td><td>196.00 +/- 28.00</td><td style="text-align:right">0.6 &sigma;</td><td style="text-align:right">X<sup>1</sup><sub>Z</sub>, X<sub>t</sub></td></tr>
+<tr><td><a href=http://cms-results.web.cern.ch/cms-results/public-results/publications/SUS-16-033/index.html>CMS-SUS-16-033</a></td><td>em</td> <td>SR1_Njet2_Nb0_H ...</td><td>T2tt</td><td>7838</td><td>7584.00 +/- 433.00</td><td style="text-align:right">0.6 &sigma;</td><td style="text-align:right">X<sup>1</sup><sub>Z</sub>, X<sub>t</sub></td></tr>
+<tr><td><a href=http://cms-results.web.cern.ch/cms-results/public-results/publications/SUS-16-033/index.html>CMS-SUS-16-033</a></td><td>em</td> <td>SR12_Njet5_Nb1_ ...</td><td>T2tt</td><td>48</td><td>42.20 +/- 9.70</td><td style="text-align:right">0.5 &sigma;</td><td style="text-align:right">X<sup>1</sup><sub>Z</sub>, X<sub>t</sub></td></tr>
+<tr><td><a href=http://cms-results.web.cern.ch/cms-results/public-results/publications/SUS-16-033/index.html>CMS-SUS-16-033</a></td><td>em</td> <td>SR7_Njet3_Nb1_H ...</td><td>T2tt</td><td>123</td><td>113.00 +/- 18.00</td><td style="text-align:right">0.5 &sigma;</td><td style="text-align:right">X<sup>1</sup><sub>Z</sub>, X<sub>t</sub></td></tr>
+<tr><td><a href=http://cms-results.web.cern.ch/cms-results/public-results/publications/SUS-16-033/index.html>CMS-SUS-16-033</a></td><td>em</td> <td>SR9_NJet5_Nb2_H ...</td><td>T2tt</td><td>6</td><td>4.40 +/- 3.40</td><td style="text-align:right">0.4 &sigma;</td><td style="text-align:right">X<sup>1</sup><sub>Z</sub>, X<sub>t</sub></td></tr>
+<tr><td><a href=http://cms-results.web.cern.ch/cms-results/public-results/publications/SUS-16-033/index.html>CMS-SUS-16-033</a></td><td>em</td> <td>SR4_Njet5_Nb0_H ...</td><td>T2tt</td><td>25</td><td>23.00 +/- 6.50</td><td style="text-align:right">0.3 &sigma;</td><td style="text-align:right">X<sup>1</sup><sub>Z</sub>, X<sub>t</sub></td></tr>
+<tr><td><a href=http://cms-results.web.cern.ch/cms-results/public-results/publications/SUS-16-033/index.html>CMS-SUS-16-033</a></td><td>em</td> <td>SR3_Njet5_Nb0_H ...</td><td>T2tt</td><td>819</td><td>806.00 +/- 57.00</td><td style="text-align:right">0.2 &sigma;</td><td style="text-align:right">X<sup>1</sup><sub>Z</sub>, X<sub>t</sub></td></tr>
+<tr><td><a href=http://cms-results.web.cern.ch/cms-results/public-results/publications/SUS-16-033/index.html>CMS-SUS-16-033</a></td><td>em</td> <td>SR5_Njet9_Nb0_H ...</td><td>T2tt</td><td>1</td><td>0.60 +/- 1.30</td><td style="text-align:right">0.0 &sigma;</td><td style="text-align:right">X<sup>1</sup><sub>Z</sub>, X<sub>t</sub></td></tr>
+<tr><td><a href=http://cms-results.web.cern.ch/cms-results/public-results/publications/SUS-16-033/index.html>CMS-SUS-16-033</a></td><td>em</td> <td>SR8_Njet5_Nb3_H ...</td><td>T2tt</td><td>17</td><td>19.50 +/- 8.40</td><td style="text-align:right">-0.2 &sigma;</td><td style="text-align:right">X<sup>1</sup><sub>Z</sub>, X<sub>t</sub></td></tr>
+<tr><td><a href=http://cms-results.web.cern.ch/cms-results/public-results/publications/SUS-16-033/index.html>CMS-SUS-16-033</a></td><td>em</td> <td>SR10_Njet9_Nb3_ ...</td><td>T2tt</td><td>0</td><td>0.00 +/- 1.30</td><td style="text-align:right">-0.7 &sigma;</td><td style="text-align:right">X<sup>1</sup><sub>Z</sub>, X<sub>t</sub></td></tr>
+<tr><td><a href=http://cms-results.web.cern.ch/cms-results/public-results/publications/SUS-19-006/index.html>CMS-SUS-19-006-agg</a></td><td>comb</td> <td>-</td><td>T2tt</td><td> 1 fb </td><td> 1 fb</td><td style="text-align:right">-0.9 &sigma;</td><td style="text-align:right">X<sup>1</sup><sub>Z</sub>, X<sub>t</sub></td></tr>
+<tr><td><a href=http://cms-results.web.cern.ch/cms-results/public-results/publications/SUS-16-033/index.html>CMS-SUS-16-033</a></td><td>em</td> <td>SR11_Njet7_Nb1_ ...</td><td>T2tt</td><td>890</td><td>969.00 +/- 80.00</td><td style="text-align:right">-0.9 &sigma;</td><td style="text-align:right">X<sup>1</sup><sub>Z</sub>, X<sub>t</sub></td></tr>
 </table>

diff --git a/protomodels/mcmc4_310/index.html b/protomodels/mcmc4_310/index.html
@@ -1,22 +1,22 @@
 <html>
 <body>
 <center>
-<table><td><h1>Current best protomodel: <i>K</i>=23.63, <i>TL</i>=29.40</h1><td><img height=60px src=https://smodels.github.io//protomodels/logos/protomodel_lego.png></table>
+<table><td><h1>Current best protomodel: <i>K</i>=24.44, <i>TL</i>=29.49</h1><td><img height=60px src=https://smodels.github.io//protomodels/logos/protomodel_lego.png></table>
 </center>
-<b><a href=./hiscore.slha>ProtoModel</a> <a href=./pmodel.dict>(dict)</a> produced with <a href=https://smodels.github.io//docs/Validation310>database v3.1.0</a>, combination strategy <a href=./matrix.png>aggressive</a> in walker 0 step 501.</b> <br>
+<b><a href=./hiscore.slha>ProtoModel</a> <a href=./pmodel.dict>(dict)</a> produced with <a href=https://smodels.github.io//docs/Validation310>database v3.1.0</a>, combination strategy <a href=./matrix.png>aggressive</a> in walker 0 step 593.</b> <br>
 <table width=80%>
 <tr><td>
-<br><b>29 predictions available. Highest r values are:</b><br><ul>
-<li><a href=https://atlas.web.cern.ch/Atlas/GROUPS/PHYSICS/PAPERS/EXOT-2018-06/>ATLAS-EXOT-2018-06</a>:em:TChiISR,TChiZISRqq r=1.38, r<sub>exp</sub>=1.49<br>
-<li><a href=http://cms-results.web.cern.ch/cms-results/public-results/publications/SUS-20-002/index.html>CMS-SUS-20-002</a>:ul:T2tt r=0.40, r<sub>exp</sub>=0.40<br>
-<li><a href=http://cms-results.web.cern.ch/cms-results/public-results/publications/SUS-19-010/index.html>CMS-SUS-19-010</a>:ul:T2tt r=0.29, r<sub>exp</sub>=0.30<br>
-<li><a href=http://cms-results.web.cern.ch/cms-results/public-results/publications/EXO-20-004/>CMS-EXO-20-004</a>:em:TChiISR,TChiZISRqq r=0.28, r<sub>exp</sub>=0.45<br>
+<br><b>21 predictions available. Highest r values are:</b><br><ul>
+<li><a href=http://cms-results.web.cern.ch/cms-results/public-results/publications/SUS-20-002/index.html>CMS-SUS-20-002</a>:ul:T2tt r=1.37, r<sub>exp</sub>=1.19<br>
+<li><a href=https://atlas.web.cern.ch/Atlas/GROUPS/PHYSICS/PAPERS/EXOT-2018-06/>ATLAS-EXOT-2018-06</a>:em:TChiISR,TChiZISRqq r=1.37, r<sub>exp</sub>=1.48<br>
+<li><a href=http://cms-results.web.cern.ch/cms-results/public-results/publications/SUS-19-010/index.html>CMS-SUS-19-010</a>:ul:T2tt r=1.08, r<sub>exp</sub>=0.92<br>
+<li><a href=http://cms-results.web.cern.ch/cms-results/public-results/publications/SUS-19-009/index.html>CMS-SUS-19-009</a>:ul:T2tt r=0.69, r<sub>exp</sub>=0.66<br>
 </ul>
-<td><img width=600px src=./texdoc.png?1754739161>
-<br><span style='font-size: smaller; color: darkred;'>Last updated: Sat Aug  9 13:32:41 2025</span>
+<td><img width=600px src=./texdoc.png?1754743710>
+<br><span style='font-size: smaller; color: darkred;'>Last updated: Sat Aug  9 14:48:30 2025</span>
 </table><table style="width:80%">
-<td width=45%><img height=580px src=./ruler.png?1754739161><td width=55%><img height=220px src=./decays.png?1754739161>
-<font size=-3><iframe type="text/html" height="350px" width="100%" frameborder="0" src="./rawnumbers.html?1754739161"></iframe></font>
+<td width=45%><img height=580px src=./ruler.png?1754743710><td width=55%><img height=220px src=./decays.png?1754743710>
+<font size=-3><iframe type="text/html" height="350px" width="100%" frameborder="0" src="./rawnumbers.html?1754743710"></iframe></font>
 </table>
 </body>
 </html>
